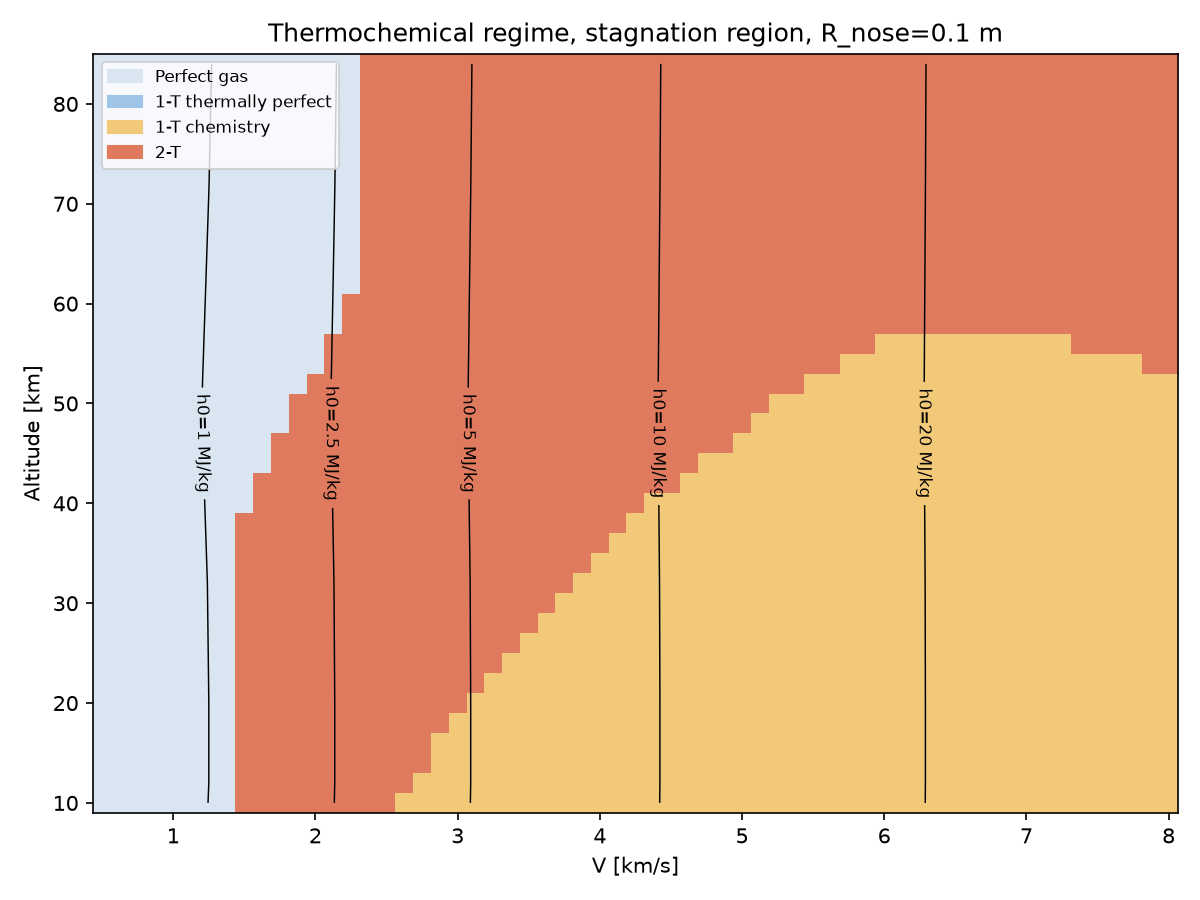
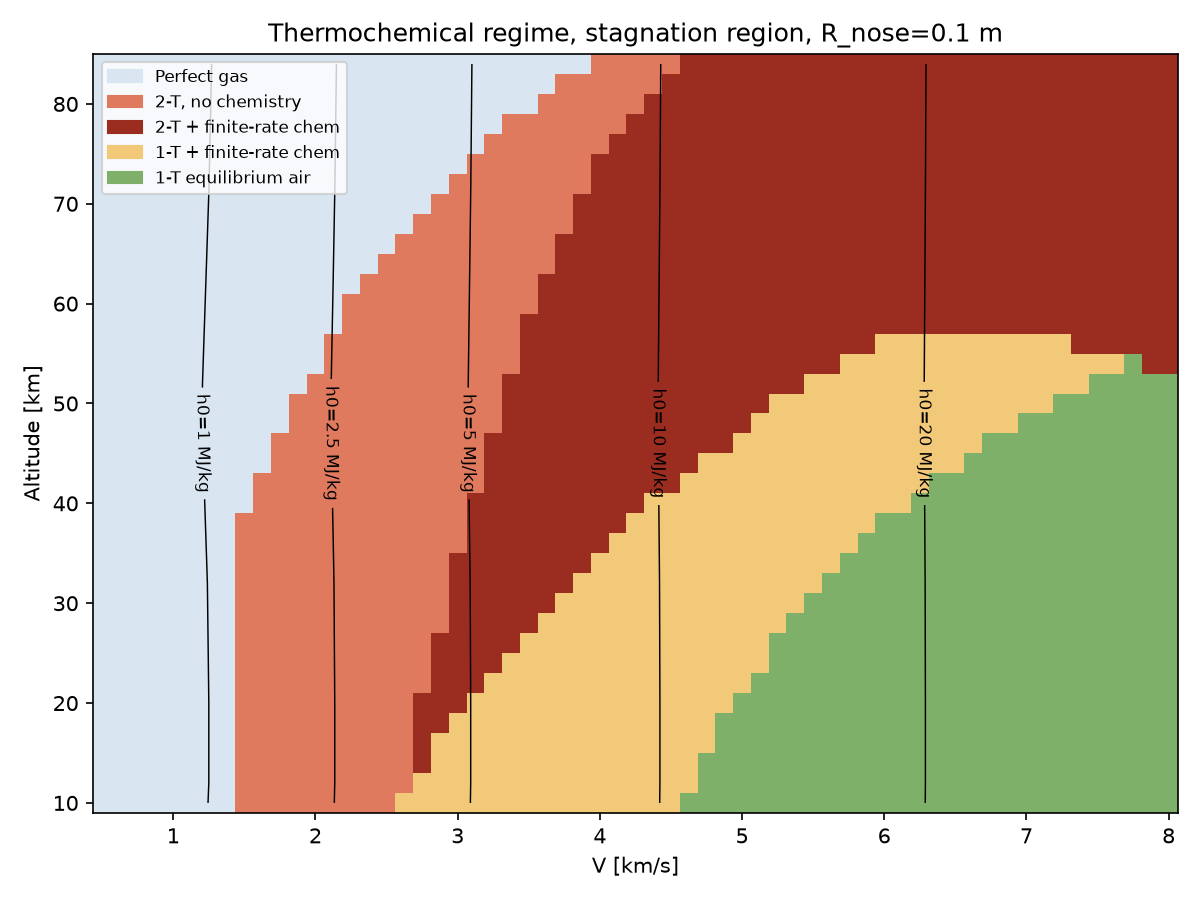
bug fix

diff --git a/regime/plot.py b/regime/plot.py
@@ -8,25 +8,30 @@ def regime_map(alts_km, vels, R_nose=0.1, fname="regime_map.png"):
 
     from .classify import evaluate
 
-    codes = {"perfect": 0, "1T-TP": 1, "1T-chem": 2, "2T": 3}
+    # one class per (vib, chem) model from classify._decide, so chemistry is never hidden
+    labels = ["Perfect gas", "1-T thermally perfect", "2-T, no chemistry",
+              "2-T + finite-rate chem", "1-T + finite-rate chem", "1-T equilibrium air"]
     Z = np.zeros((len(alts_km), len(vels)))
     H0 = np.zeros_like(Z)
     for i, a in enumerate(alts_km):
         for j, v in enumerate(vels):
             r = evaluate(a, v, R_nose=R_nose)
             H0[i, j] = r.h0 / 1e6
-            if r.vib_regime == "negligible" or r.model.startswith("Perfect"):
-                Z[i, j] = codes["perfect"]
-            elif r.model.startswith("2-T"):
-                Z[i, j] = codes["2T"]
-            elif r.chem_regime == "none":
-                Z[i, j] = codes["1T-TP"]
-            else:
-                Z[i, j] = codes["1T-chem"]
+            m = r.model
+            if m.startswith(("Calorically", "Perfect")):
+                Z[i, j] = 0
+            elif m.startswith("1-T thermally"):
+                Z[i, j] = 1
+            elif m.startswith("2-T"):
+                Z[i, j] = 3 if "chemistry" in m else 2
+            elif m.startswith("1-T finite-rate"):
+                Z[i, j] = 4
+            else:  # 1-T equilibrium air
+                Z[i, j] = 5
 
-    cmap = ListedColormap(["#d9e6f2", "#9ec5e8", "#f2c879", "#e07a5f"])
+    cmap = ListedColormap(["#d9e6f2", "#9ec5e8", "#e07a5f", "#9b2d20", "#f2c879", "#7fb069"])
     fig, ax = plt.subplots(figsize=(8, 6))
-    ax.pcolormesh(np.asarray(vels) / 1e3, alts_km, Z, cmap=cmap, vmin=-0.5, vmax=3.5,
+    ax.pcolormesh(np.asarray(vels) / 1e3, alts_km, Z, cmap=cmap, vmin=-0.5, vmax=5.5,
                   shading="nearest")
     cs = ax.contour(np.asarray(vels) / 1e3, alts_km, H0, levels=[1, 2.5, 5, 10, 20],
                     colors="k", linewidths=0.7)
@@ -35,9 +40,10 @@ def regime_map(alts_km, vels, R_nose=0.1, fname="regime_map.png"):
     ax.set_ylabel("Altitude [km]")
     ax.set_title(f"Thermochemical regime, stagnation region, R_nose={R_nose} m")
     import matplotlib.patches as mp
-    ax.legend(handles=[mp.Patch(color=c, label=l) for c, l in zip(
-        cmap.colors, ["Perfect gas", "1-T thermally perfect", "1-T chemistry", "2-T"])],
-        loc="upper left", fontsize=8)
+    present = set(np.unique(Z).astype(int))
+    ax.legend(handles=[mp.Patch(color=cmap.colors[k], label=labels[k])
+                       for k in range(len(labels)) if k in present],
+              loc="upper left", fontsize=8)
     fig.tight_layout()
     fig.savefig(fname, dpi=150)
     return fname

diff --git a/regime/classify.py b/regime/classify.py
@@ -110,6 +110,8 @@ def _decide(r):
     r.chem_regime = _bin_all(r.da_chem.values()) if r.da_chem else "none"
 
     v, c = r.vib_regime, r.chem_regime
+    if c == "frozen":  # reactions too slow to matter in the shock layer
+        c = "none"
     if c == "none" and r.vib_frac < VIB_FRAC_MIN:
         r.model = (f"Perfect gas / 1-T thermally perfect adequate "
                    f"(e_vib/h < {100*VIB_FRAC_MIN:.0f}%); 2-T only for fidelity")
